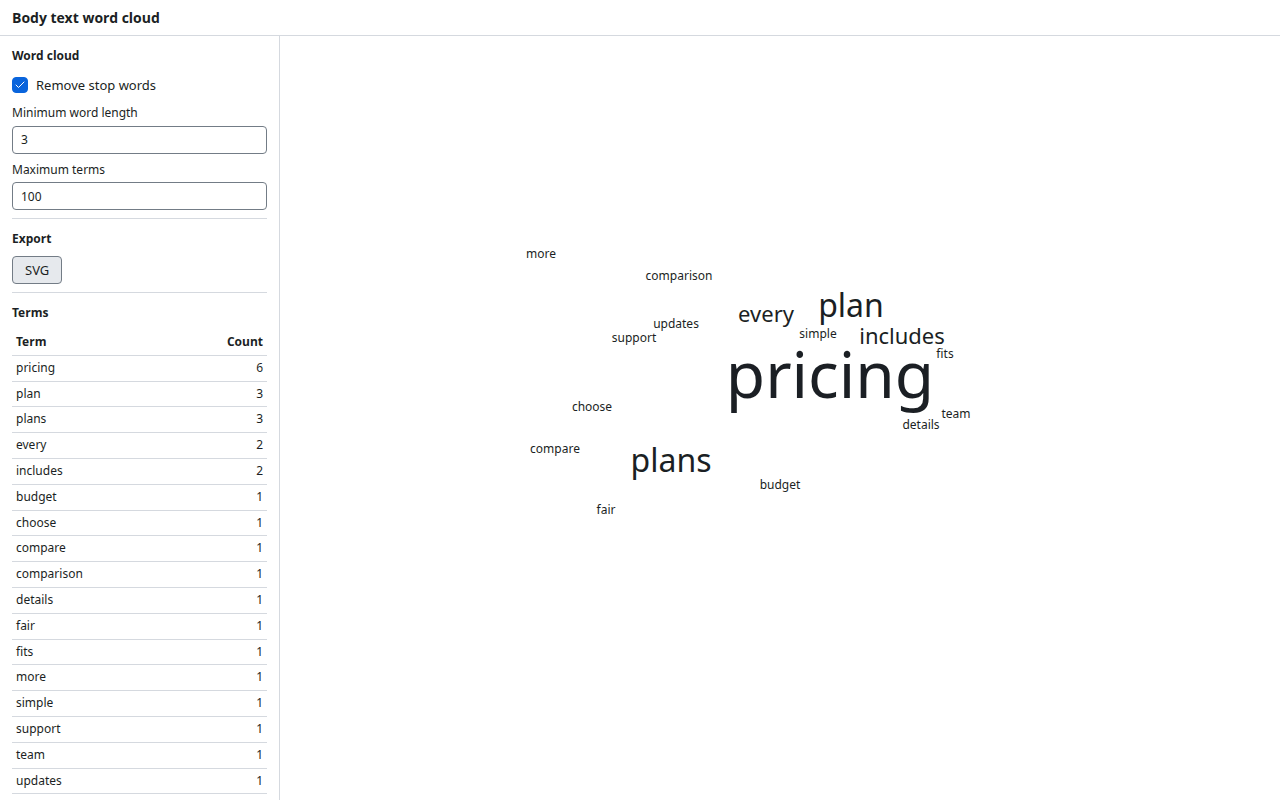
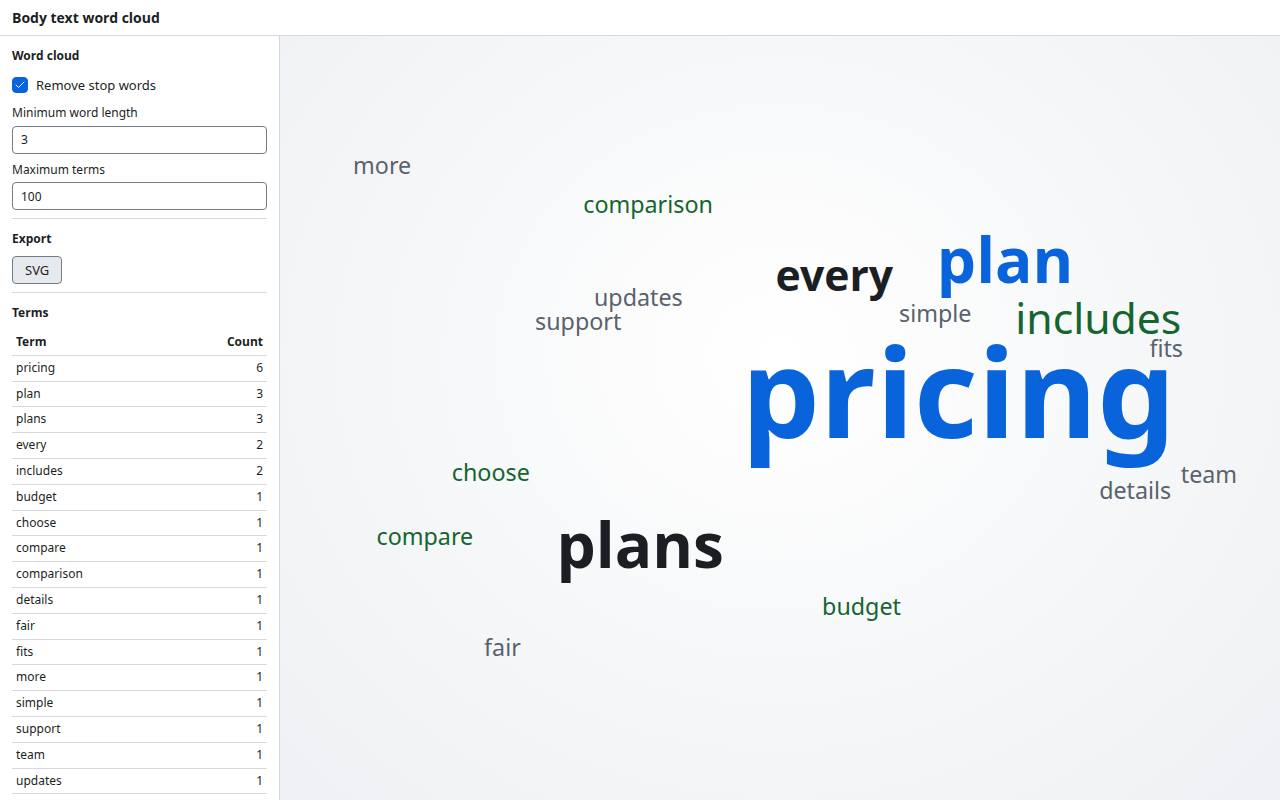
plan: Bericht M3-V02 – Optik-Feinschliff mit Vorher/Nachher-Bildern hell/dunkel und Leistungsvergleich

diff --git a/docs/plan/M3-reports/v02.md b/docs/plan/M3-reports/v02.md
@@ -232,6 +232,104 @@ samt `v02/`-Screenshots). `ui/menu/contributions/main.ts`, `package.json` und `p
   `contextEntries.ts` per Pfad) erstellt; er enthält nur Dateien dieses Pakets (vor dem Commit per `git status`
   geprüft). Alle übrigen Commits nennen die Pfade einzeln.
 
+## Optik-Feinschliff (Auftrag 2, 03.11.2026)
+
+Spec-Klärungen aus `cd824458` (main) sind berücksichtigt: Link-Optionen nofollow an / Navigation-Footer aus, 3D nur PNG,
+10-s-Layoutgrenze auch in 3D, Wortwolke auf Word-Count-Basis – entsprach bereits der Umsetzung, keine Codeänderung nötig.
+
+### Ursache der „riesigen grauen Kreise“
+
+Keine Metrik: Die Punktgröße folgte rein der Perspektive (Durchmesser ∝ Radius / Abstand, Obergrenze 256 px). Nach
+dem Kameraflug der Suche (Zoom ≥ 3×) lagen einzelne Knoten nahe der Kamera und wurden riesig; grau waren sie, weil sie
+bei eingeblendeten Links ausgegraut bzw. gekappt waren. Zusätzlich passte die Kamera nur beim ersten Layout-Zwischenstand
+ein, das wachsende Layout lief danach aus dem Bild (Vorher-Bilder).
+
+### Änderungen
+
+- **3D-Kugeln:** Impostor-Schattierung im Fragment-Shader (Normale aus der Punktkoordinate, Licht von oben links, weiches
+  Glanzlicht, dunklerer Rand, Kantenglättung); Punkte bis 6 px flach (dort unsichtbar, spart Rechenzeit).
+- **Größen:** Kugelradius auf [4, 14] Welteinheiten (≤ 3,5×) abgebildet – Tiefenkodierung r₀·fᵗ bzw. Metrik
+  (Wurzel-Skalierung) aus UI-092/UI-095 werden darauf gestaucht; Bildgröße relativ zum Einpass-Abstand (Zoom vergrößert,
+  Entfernung verkleinert) und hart begrenzt auf 2–34 px; dichte Graphen zeichnen kleinere Punkte (Durchmesser ∝ ∛(3 000/n)).
+- **Tiefe:** Tiefen-Abblendung als Alpha für Knoten und Kanten (Nebel zum Hintergrund), Hintergrund als weicher radialer
+  Verlauf (im WebGL-Bild, deckende Zeichenfläche).
+- **Kanten:** dünn, halbtransparent, nach Tiefe abgeblendet; ab 20 000 Kanten ohne Abblendung (Leistung); bei
+  eingeblendeten Links Baumkanten weiter gedämpft, Zusatzkanten farbig und je nach Anzahl transparenter (viele Links
+  bilden keine Fläche mehr); ausgegraute Knoten mit geringer Deckkraft.
+- **Beschriftungen 3D:** Wurzel, aktueller Suchtreffer, Knoten des Kontextmenüs und Zeiger immer, ab Zoomstufe zusätzlich die
+  nächsten Knoten; Platzierung nach Priorität ohne Überlappung, Plakette (Fläche + Rand aus Tokens). 2D: ebenfalls ohne
+  Überlappung mit Plakette (nur ab der Zoomstufe, UI-092); der SVG-Export bleibt unverändert vollständig.
+- **Bewegung:** Kamera folgt dem wachsenden Layout (Einpassen auf Schwerpunkt und 95.-Perzentil-Radius), bis der Nutzer
+  dreht, zoomt, verschiebt oder sucht; „Ansicht zurücksetzen“ schaltet es wieder ein. Kameraflug 750 ms Ease-in-out,
+  sanftes Einschwingen der angezeigten Positionen; Einstellung „Im Leerlauf langsam drehen“ (Standard aus, nicht bei
+  reduzierter Bewegung). Bei `prefers-reduced-motion` ohne Animation.
+- **Hover/Legende:** Lichtschein (Akzentfarbe) für Zeiger, Treffer und Auswahl; kompakte Farblegende unten links auf der
+  Zeichenfläche (2D und 3D) zusätzlich zur ausführlichen Legende der Seitenleiste.
+- **2D:** Hintergrundverlauf, Baumkanten halbtransparent und schmaler, feiner Rand in Hintergrundfarbe trennt dichte
+  Knoten, Schein beim Zeiger; Tiefen- und Metrikkodierung unverändert (Spec-Werte, E2E-Prüfung der Radien).
+- **Wortwolke:** Archimedes-Spirale mit Abstand 1, Wolke zentriert und flächenfüllend (bis 2,5×, die Schriftgrößen
+  12–64 px der Platzierung bleiben), Schriftstärke 700/600/500/400 und Farbe nach Häufigkeitsstufe (obere 6 %, bis 20 %,
+  bis 50 %, Rest), deterministisch mit Startwert, Hover zeigt „Begriff: Anzahl“.
+
+### Farben (nur Tokens)
+
+Gelesen werden `bg.surface`, `bg.app`, `bg.hover`, `border`, `border.strong`, `text`, `text.muted`, `accent`,
+`status.none`, `badge.success`, `badge.danger`, `badge.warning`, `badge.warningBg` (die Diagrammpalette `chart.*` wird
+nicht verwendet und nicht geändert). **Lokal abgeleitete Werte** (`exporters.ts::readRenderStyle`,
+`encoding.ts::paletteFromTokens`, Mischungen vorhandener Tokens): nicht indexierbar = `badge.danger` 40 % (dunkel 12 %)
+zur Fläche, 4xx hell = `badge.warning` 35 % zu `badge.warningBg`, Verlauf-Anfang = `accent` 80 % zur Fläche,
+Ausgrau-Ton = `border` 25 % (dunkel 15 %) zur Fläche, Hintergrund-Mitte dunkel = `bg.surface` 45 % zu `bg.hover`,
+Hintergrund-Rand hell = `bg.app` 35 % zu `border`. Das farbfehlsichtigkeitstaugliche Schema (UI-091) bleibt die feste
+Okabe-Ito-Palette (`PALETTES.colorblind`) – dafür gibt es kein Token; Vorschlag: bei Bedarf Tokens `viz.cb.*`. In Tests
+ohne gesetzte Tokens gelten die bisherigen festen Werte. Hinweis: Die Helligkeit der Tiefenkodierung (UI-092,
+L = min(85 %, 30 % + 8 %·t)) ist im dunklen Theme spec-gemäß unverändert, d. h. flache Ebenen sind dort dunkler.
+
+### Nachweis
+
+Vorführ-Fixture `fxUiShowcase` (951 URLs, Tiefen 0–4, Blog/Shop/Doku/News/Support, ca. 10 % nicht indexierbar,
+Status 200/301/404/500, Segmente, Querverlinkung) mit `directoryTreeOf` (1 006 Knoten im Verzeichnisgraphen) und
+`fxUiShowcaseWords` (120 Begriffe). Rezept `e2e/viz/polish.spec.ts` (nur mit `OS_V02_POLISH=vorher|nachher`), Bilder
+unter `docs/plan/M3-reports/v02/polish/` jeweils `vorher-…`/`nachher-…` × `hell`/`dunkel`: `3d-crawl-graph`,
+`3d-verzeichnisgraph`, `2d-verzeichnisgraph-links` (Inlinks auf `/shop/`), `wortwolke`. Die E2E-Screenshots unter
+`v02/` sind mit dem neuen Stand neu erzeugt.
+
+### Leistung vorher/nachher (Server-Richtwert, Chromium headless, Software-WebGL, Entwicklungsbuild)
+
+| Messung | vorher | nachher |
+|---|---|---|
+| UI-146 2D-Graph 10 000 Knoten: erstes Bild / Layout / Bildrate / SVG-Export | 351 ms / 3,3 s (konvergiert) / 59,7 fps / 24 ms, 1,17 MB | 282 ms / 3,3 s (konvergiert) / 59,7 fps / 16 ms, 1,17 MB |
+| UI-146 Baum 10 000: Zu-/Aufklappen | 35 / 49 ms | 37 / 40 ms |
+| UI-098 3D 100 000 Knoten: erstes Bild / Layout | 1,9–2,1 s / 10 s-Grenze | 2,0 s / 10 s-Grenze |
+| UI-098 3D 100 000 Knoten: fps Leerlauf (Median, Spanne) | 15,4 (12,6–16,5; n = 10) | 12,8 (9,4–13,8; n = 4) |
+| UI-098 3D 100 000 Knoten: fps beim Ziehen (Median) | 15,5 | 12,1 |
+
+Die 3D-Zeilen stammen aus direkt abwechselnden A/B-Läufen (alter und neuer Viz-Code im selben Worktree) bei
+Serverlast 8–15 (andere Pakete); die Streuung liegt bei ±1–2 fps. Im Software-Rasterizer kostet der neue Stand rund
+15 % Bildrate (Ursache gemessen: die 100 000 Kanten dominieren – ohne Kanten 25 fps; Gegenmaßnahmen: Kanten ab 20 000 ohne
+Abblendung, flache Punkte bis 6 px, Nebel im Farb-Alpha statt eigenem Varying, Punktgröße nach Knotenzahl). Auf einer GPU
+fallen diese Unterschiede nicht ins Gewicht; der verbindliche Beleg (≥ 30 fps, Referenzhardware A) bleibt die Messung des
+Orchestrators auf dem Mac mini nach dem Rezept oben. 2D: kein Rückschritt.
+
+### Prüfungen (Server, Endstand `bc46480b`)
+
+| Prüfung | Ergebnis |
+|---|---|
+| `cargo fmt --all --check`, `cargo clippy --workspace --all-targets --locked -- -D warnings` | ok (kein Rust geändert) |
+| `cargo test -p os-app --test cmd_viz_v02 --test cmd_viz_snapshots --test dto_exports`, `-p os-analyze --test graph_overlay --test graph_dirs --test graph_data --test graph_limits` | ok: 26 + 21 bestanden |
+| `npm run -w apps/desktop typecheck` | ok |
+| `npm run -w apps/desktop test` | ok: 111 Dateien, 937 Tests |
+| `check:licenses` / `check:static` | ok (476 Pakete, keine neue Abhängigkeit) / ok |
+| Playwright `e2e/viz/**` chromium (mit `os-app-bridge`) | ok: 27 bestanden, 9 übersprungen (Rezepte `perf3d`/`polish` ohne Umgebungsvariable) |
+
+E2E: Die 3D-Tests überspringen sich jetzt nur noch, wenn die Umgebung selbst kein WebGL 2 bietet; bietet sie es, muss
+die Ansicht es auch nutzen (vorher hätte ein Shader-Fehler die Tests stillschweigend übersprungen). Keine Erwartung
+gelockert; neu `model/polish.test.ts` (Beschriftungen ohne Überlappung, Radiusgrenzen, Token-Schema hell/dunkel,
+Häufigkeitsstufen, Ease-in-out, Fixture). Endstand per SHA-256 mit dem Server verglichen (19 Dateien).
+
+### CI
+
+CI2_PLATZHALTER
+
 ## Abschluss
 
 Implementierung (Schritte 1–7 der prompt_notes), Server-Prüfungen, E2E mit Screenshots und Bericht abgeschlossen; CI-Läufe
